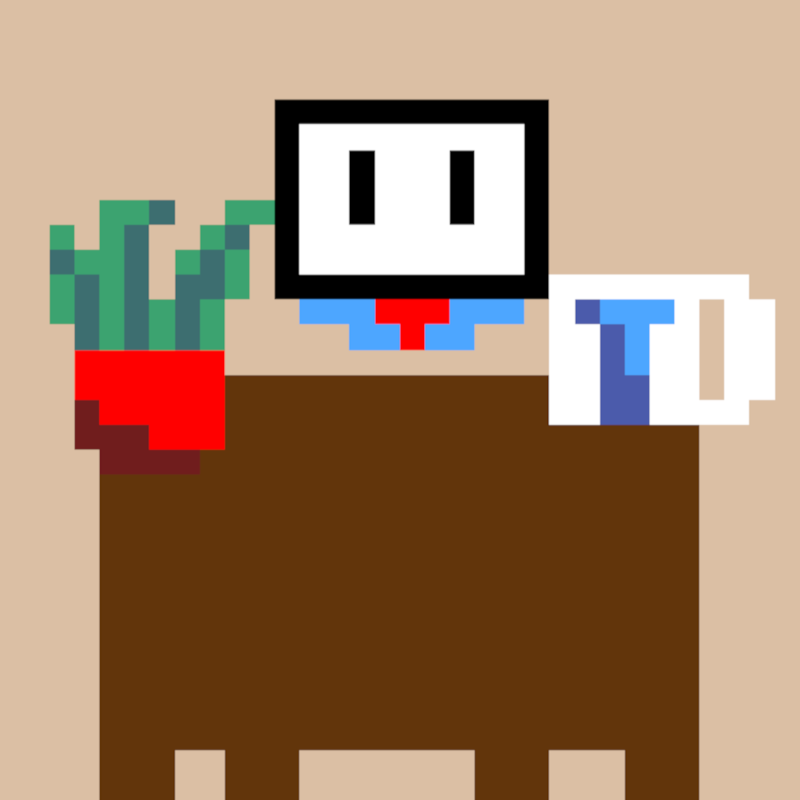
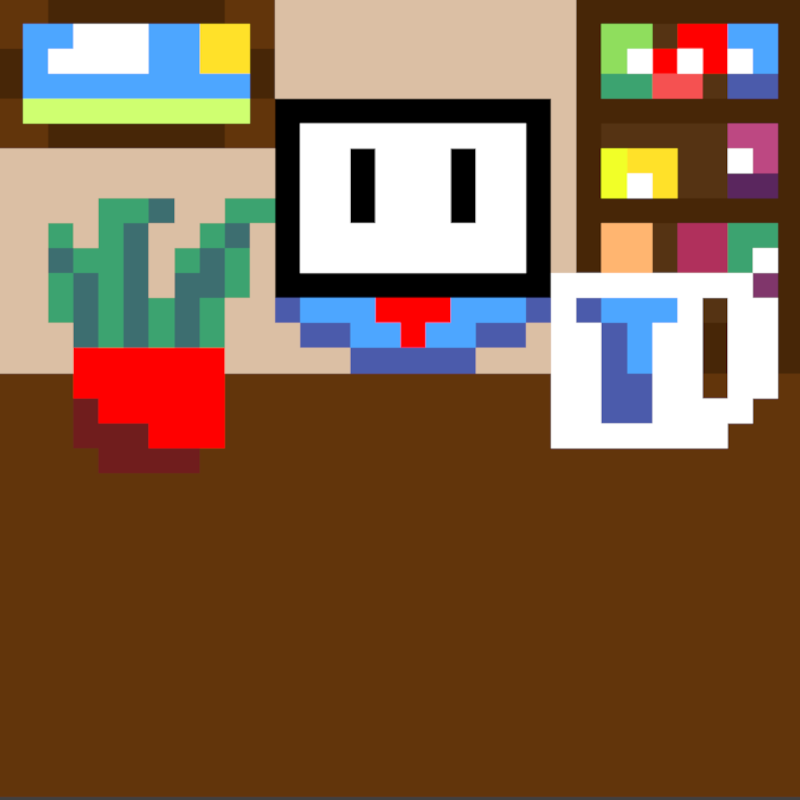
new loose in pencils.py

diff --git a/study/pencils.py b/study/pencils.py
@@ -20,7 +20,8 @@ def main():
     pygame.init()
     screen = pygame.display.set_mode(shape)
     running = True
-    n = random.randint(5, 20)
+    n = random.randint(5, 16)
+    loose_background = pygame.image.load("../Backgrounds/Loose_background.PNG")
     background = pygame.image.load("../Backgrounds/background.PNG")
     p_unsel = transform(pygame.image.load("../Pencils/green.jpg"))
     p_sel = transform(pygame.image.load("../Pencils/green_selected.jpg"))
@@ -28,7 +29,7 @@ def main():
     n_sel = 1
     font = pygame.font.SysFont(None, 100)
     img_win = font.render("YOU WIN!", True, (random.randint(0, 255), random.randint(0, 255), random.randint(0, 255)))
-    img_loose = font.render("YOU LOOSE!", True, (255, 0, 0))
+    game_over_sound = pygame.mixer.Sound("../Sounds/game_over.mp3")
 
 
     clock = pygame.time.Clock()
@@ -65,7 +66,7 @@ def main():
         if state == "choosing":
             screen.blit(background, (0, 0))
             for v in range(n):
-                screen.blit(p_unsel if v < n - n_sel else p_sel, (0 + v * p_unsel.get_width(), height // 2))
+                screen.blit(p_unsel if v < n - n_sel else p_sel, (0 + v * p_unsel.get_width(), height // 2 + 100))
         elif state == "bot_choosing":
             screen.blit(img_text, (width // 2 - img_text.get_width() // 2, height // 2 - img_text.get_height() // 2))
             bot_meter -= 1
@@ -82,7 +83,8 @@ def main():
             if meter_win == 0:
                 running = False
         elif state == "loose":
-            screen.blit(img_loose, (width // 2 - img_text.get_width() // 2, height // 2 - img_text.get_height() // 2))
+            screen.blit(loose_background, (0, 0))
+            pygame.mixer.Sound.play(game_over_sound)
             meter_loose -= 1
             if meter_loose == 0:
                 running = False
